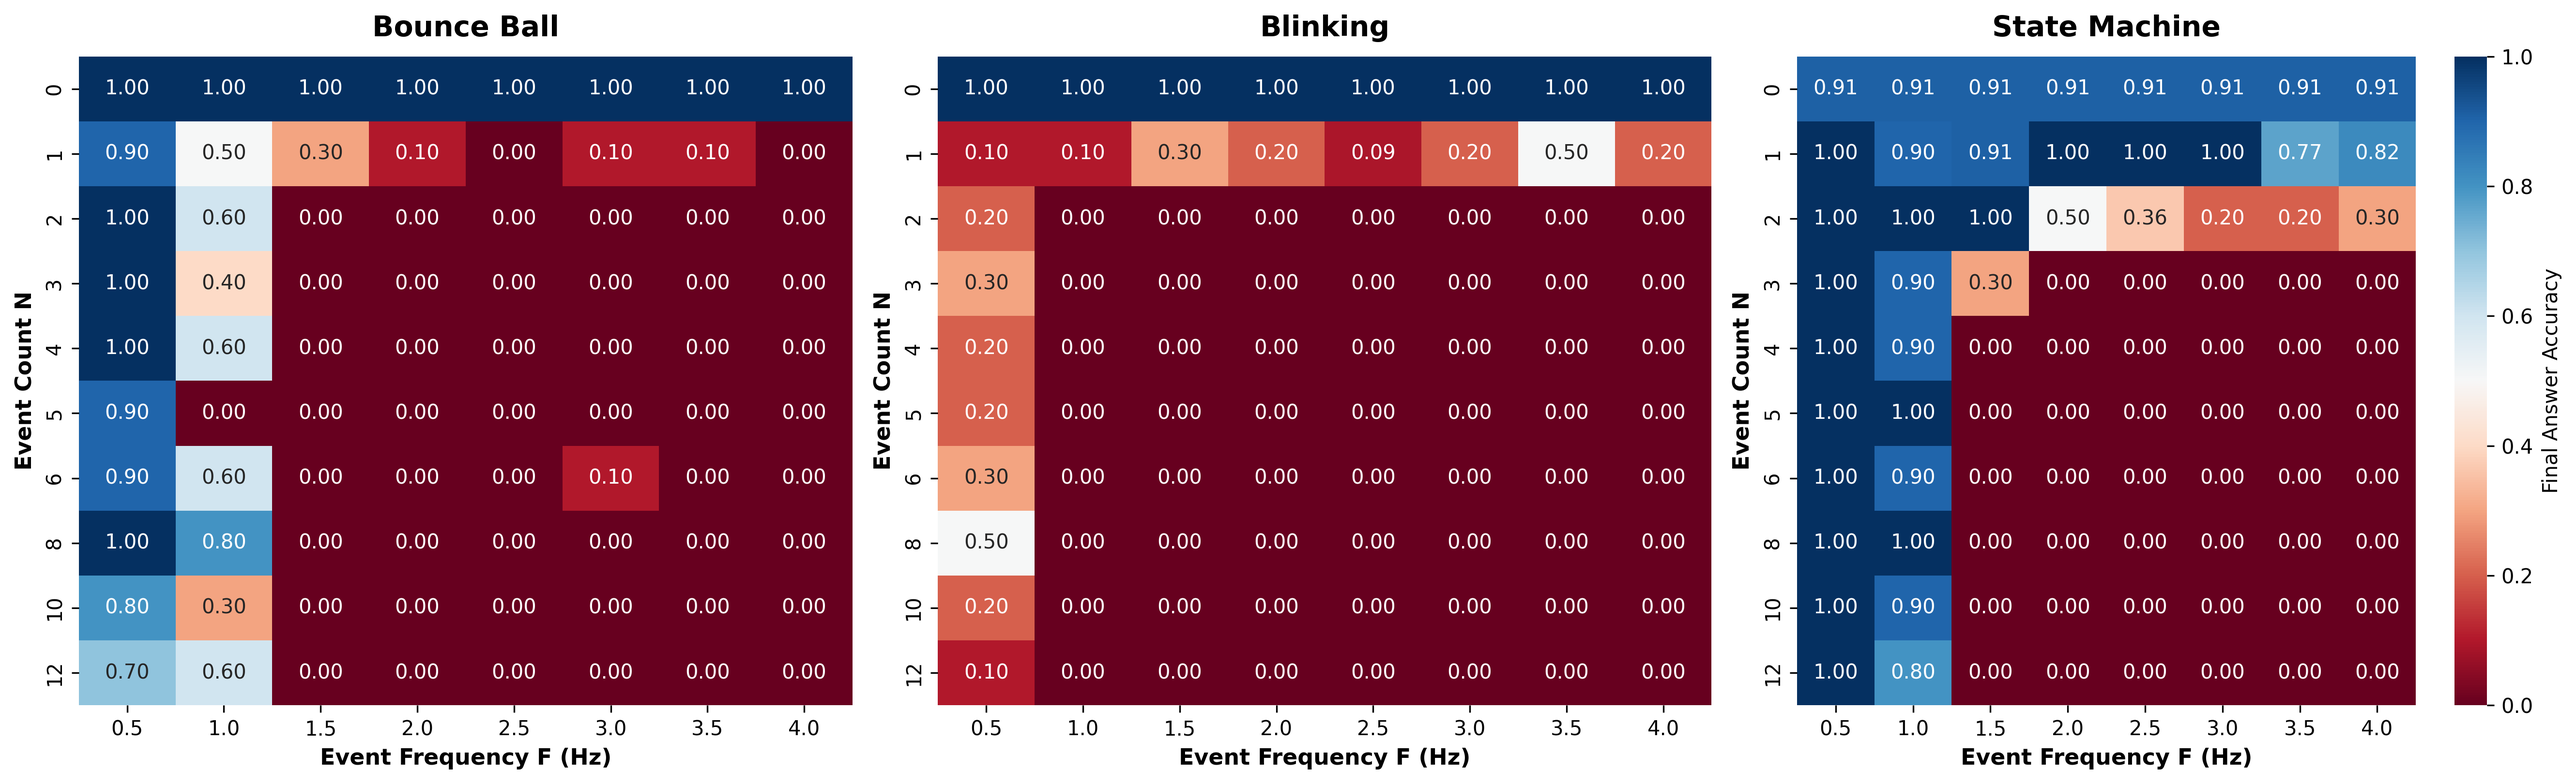
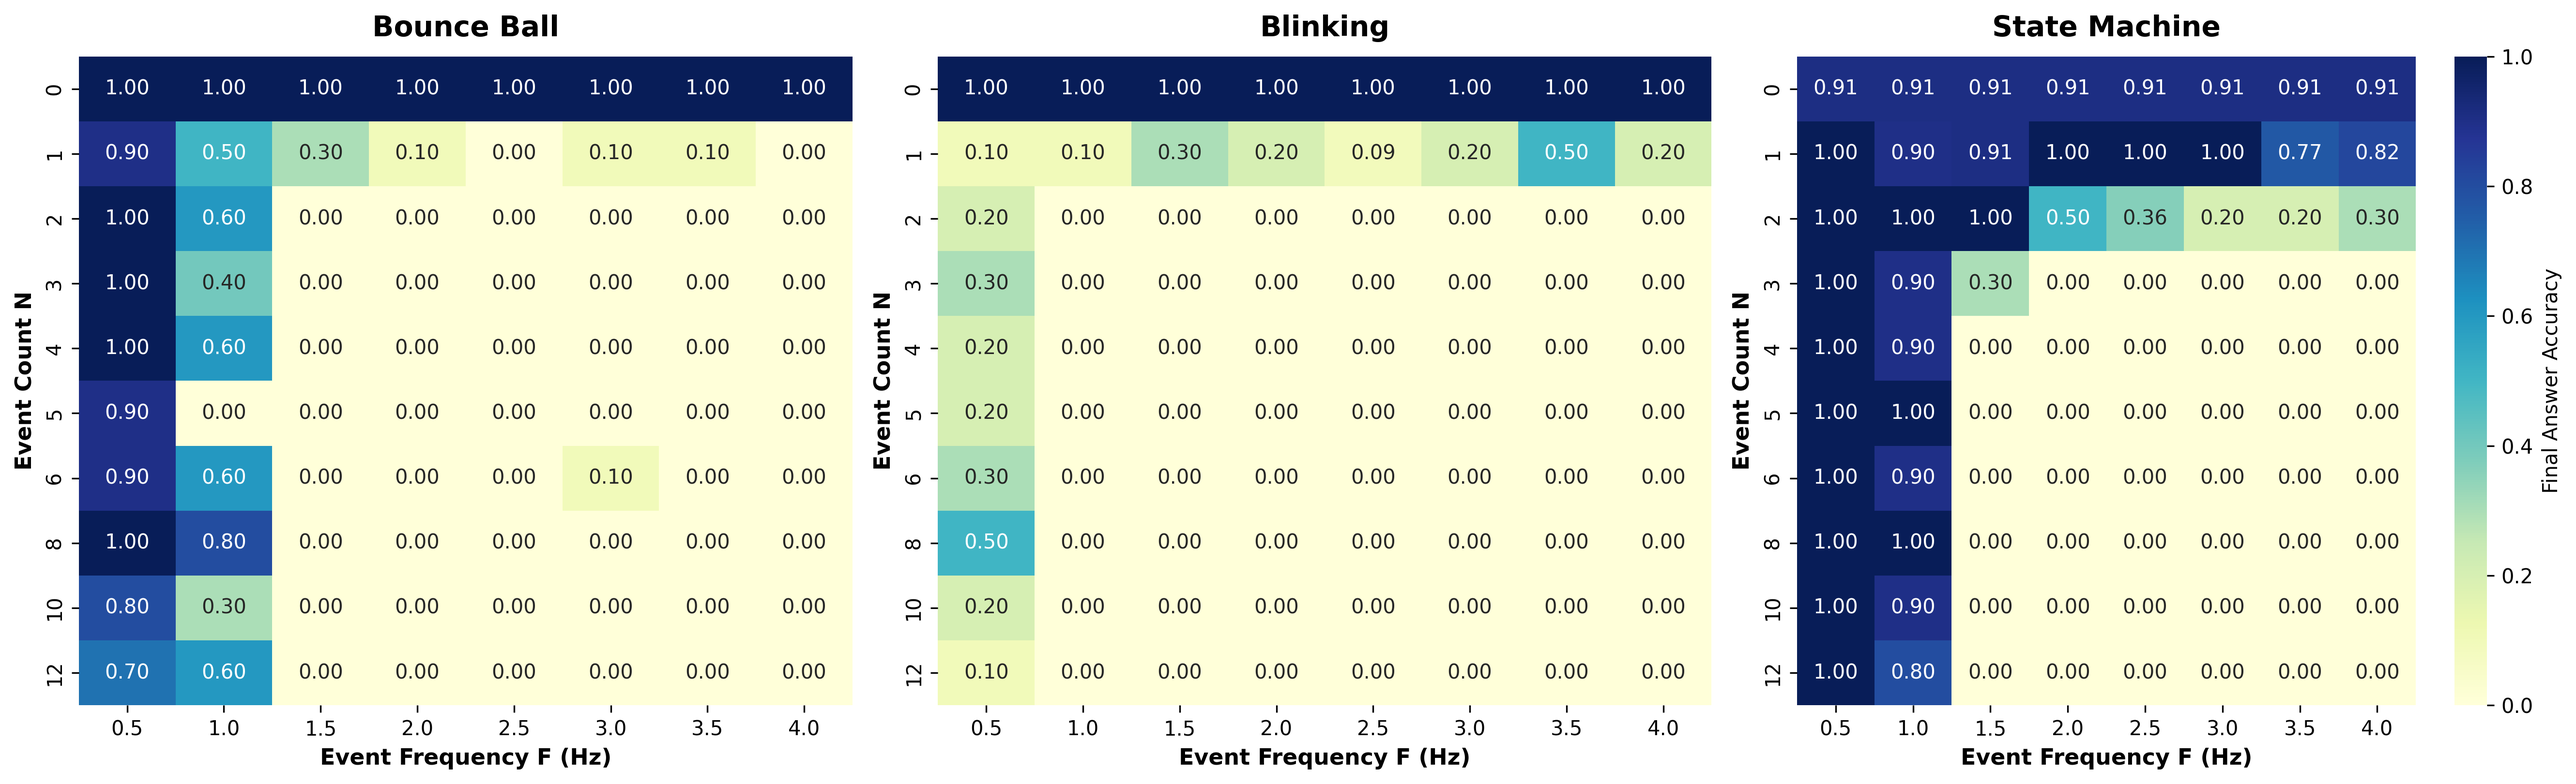
Revert Fig 3 heatmap color palette back to YlGnBu

diff --git a/scripts/build_paper_figures_and_tables.py b/scripts/build_paper_figures_and_tables.py
@@ -224,7 +224,7 @@ def main():
     print(f"Saved {tab1_path}")
 
     # -------------------------------------------------------------
-    # FIGURE 3: N x F Heatmaps across Baseline Domains (Light Red to Blue Palette)
+    # FIGURE 3: N x F Heatmaps across Baseline Domains (Original YlGnBu Palette)
     # -------------------------------------------------------------
     df_base = pd.DataFrame(baseline_records)
     fig, axes = plt.subplots(1, 3, figsize=(18, 5.5), dpi=300)
@@ -247,12 +247,11 @@ def main():
                 if not np.isnan(n0_mean):
                     pivot.loc[0] = pivot.loc[0].fillna(n0_mean)
 
-            # Using RdBu_r for light red (0.0) -> light yellow/white (0.5) -> soft blue (1.0)
             sns.heatmap(
                 pivot,
                 annot=True,
                 fmt=".2f",
-                cmap="RdBu",
+                cmap="YlGnBu",
                 ax=axes[idx],
                 vmin=0.0,
                 vmax=1.0,
